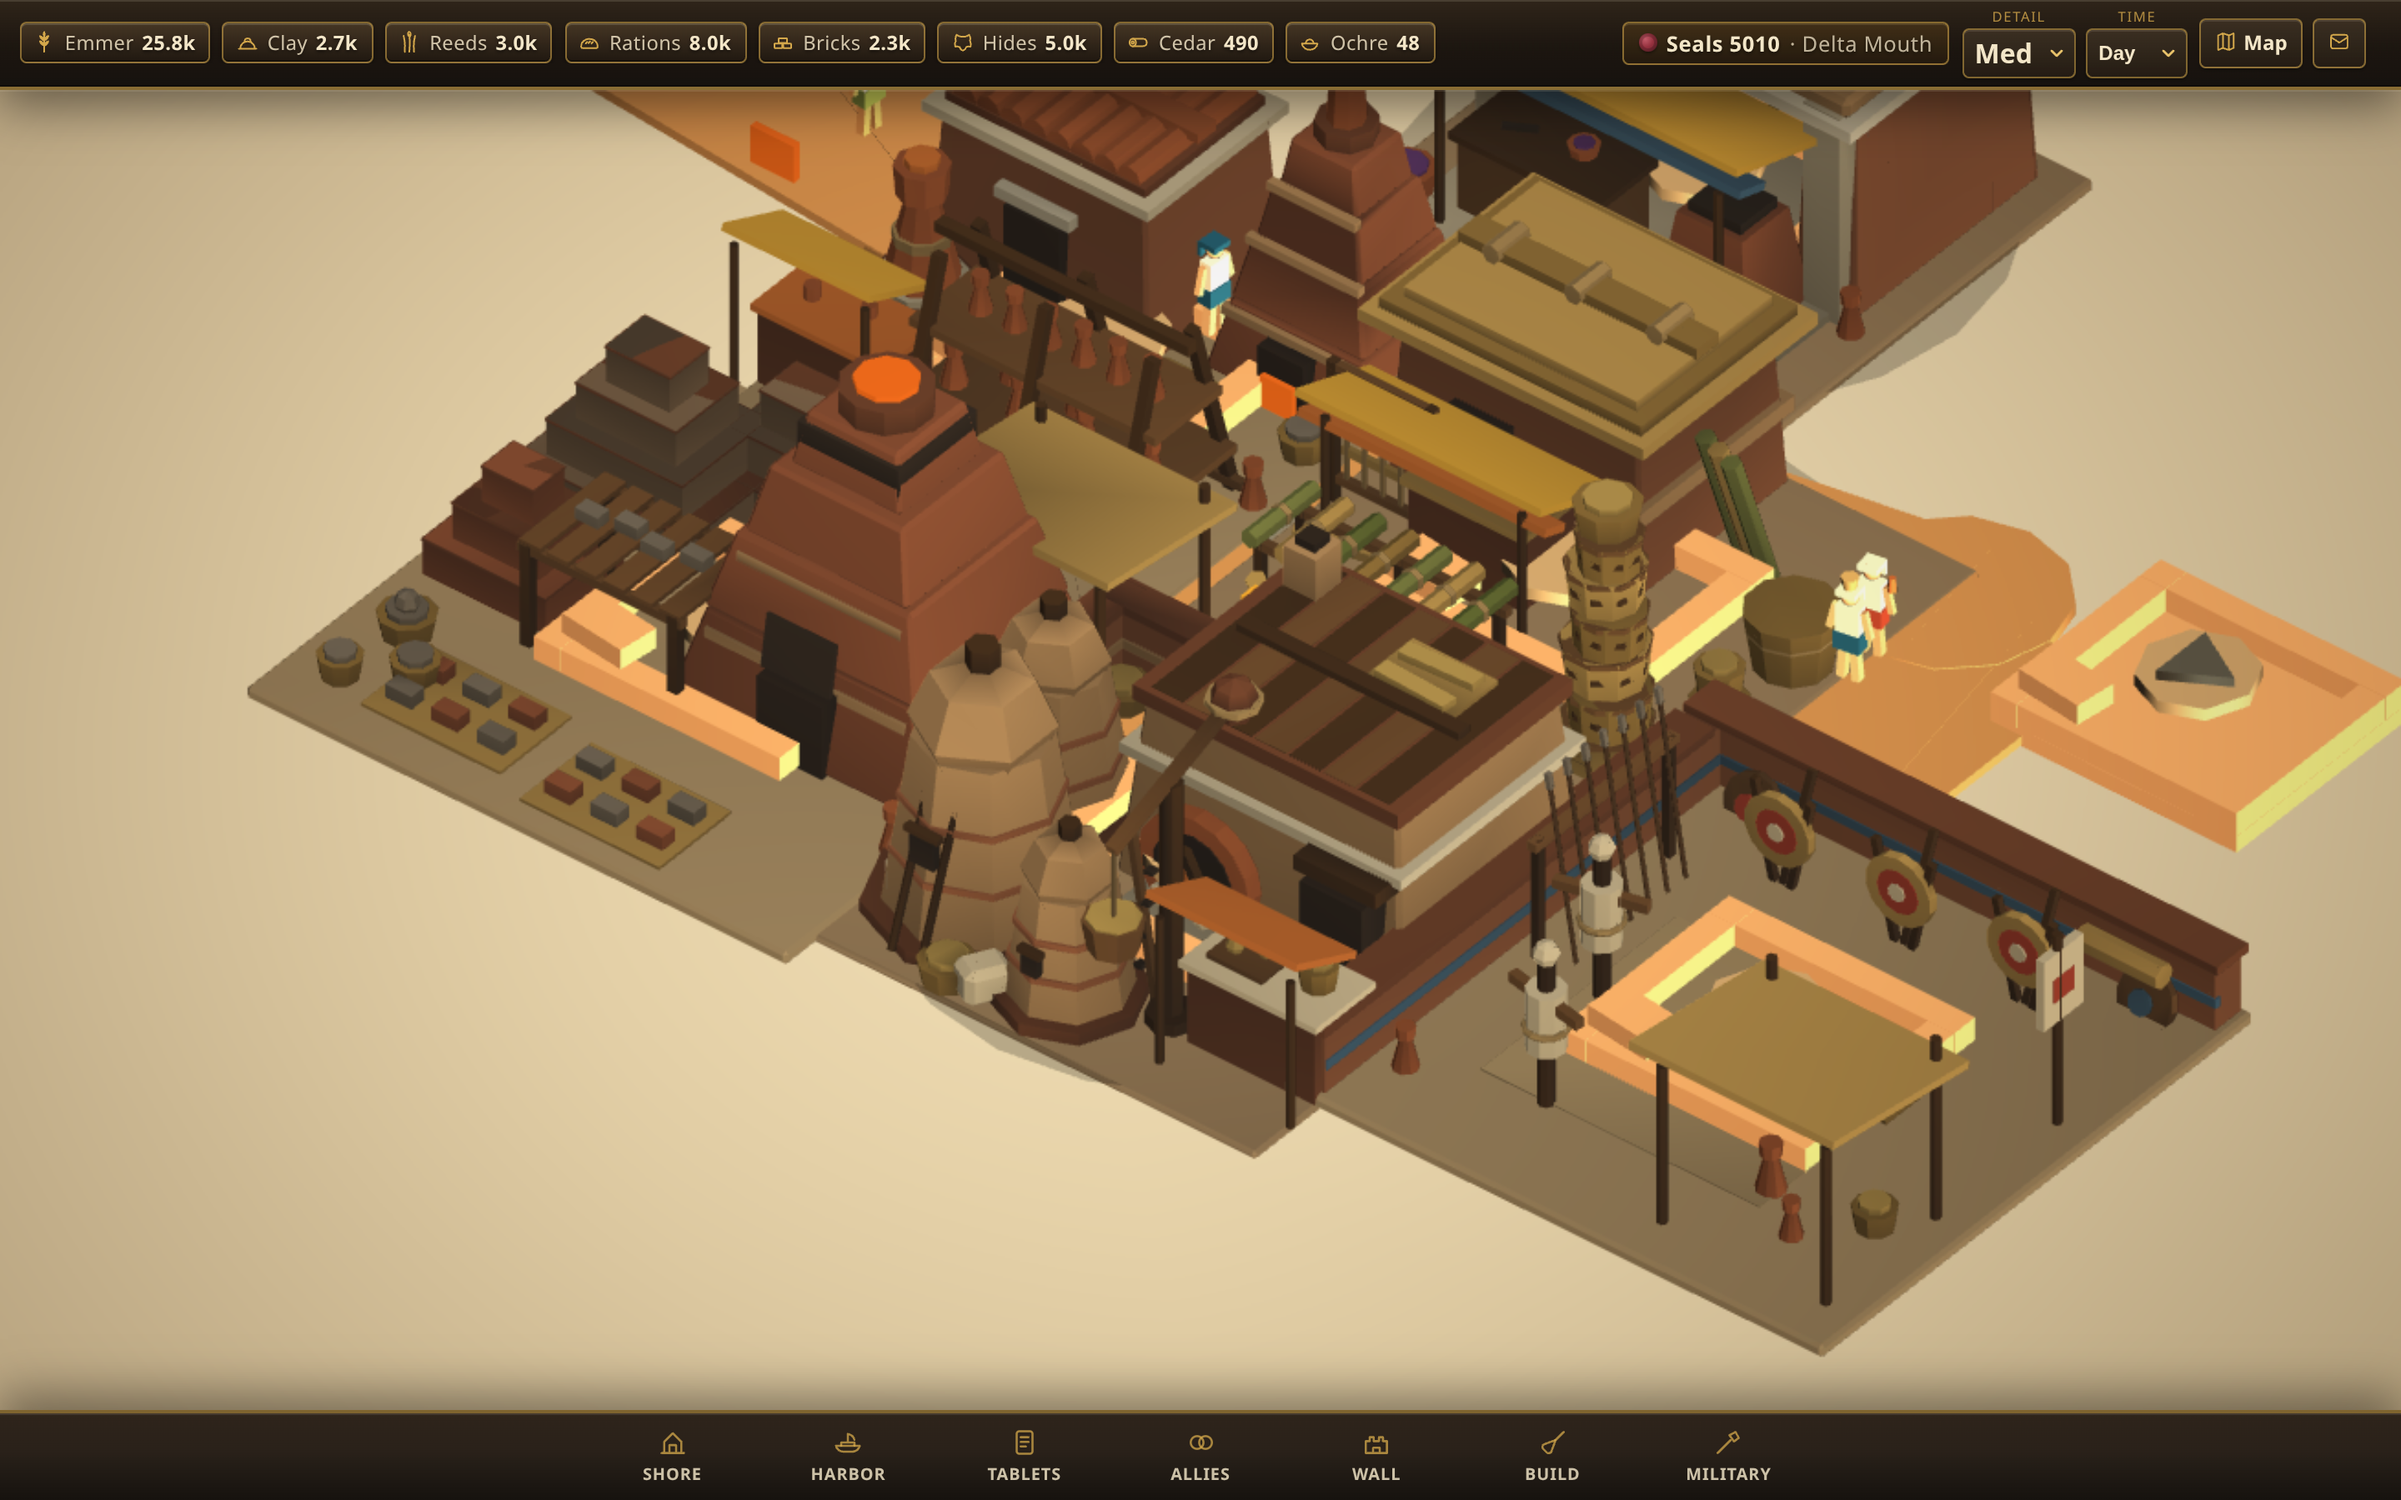
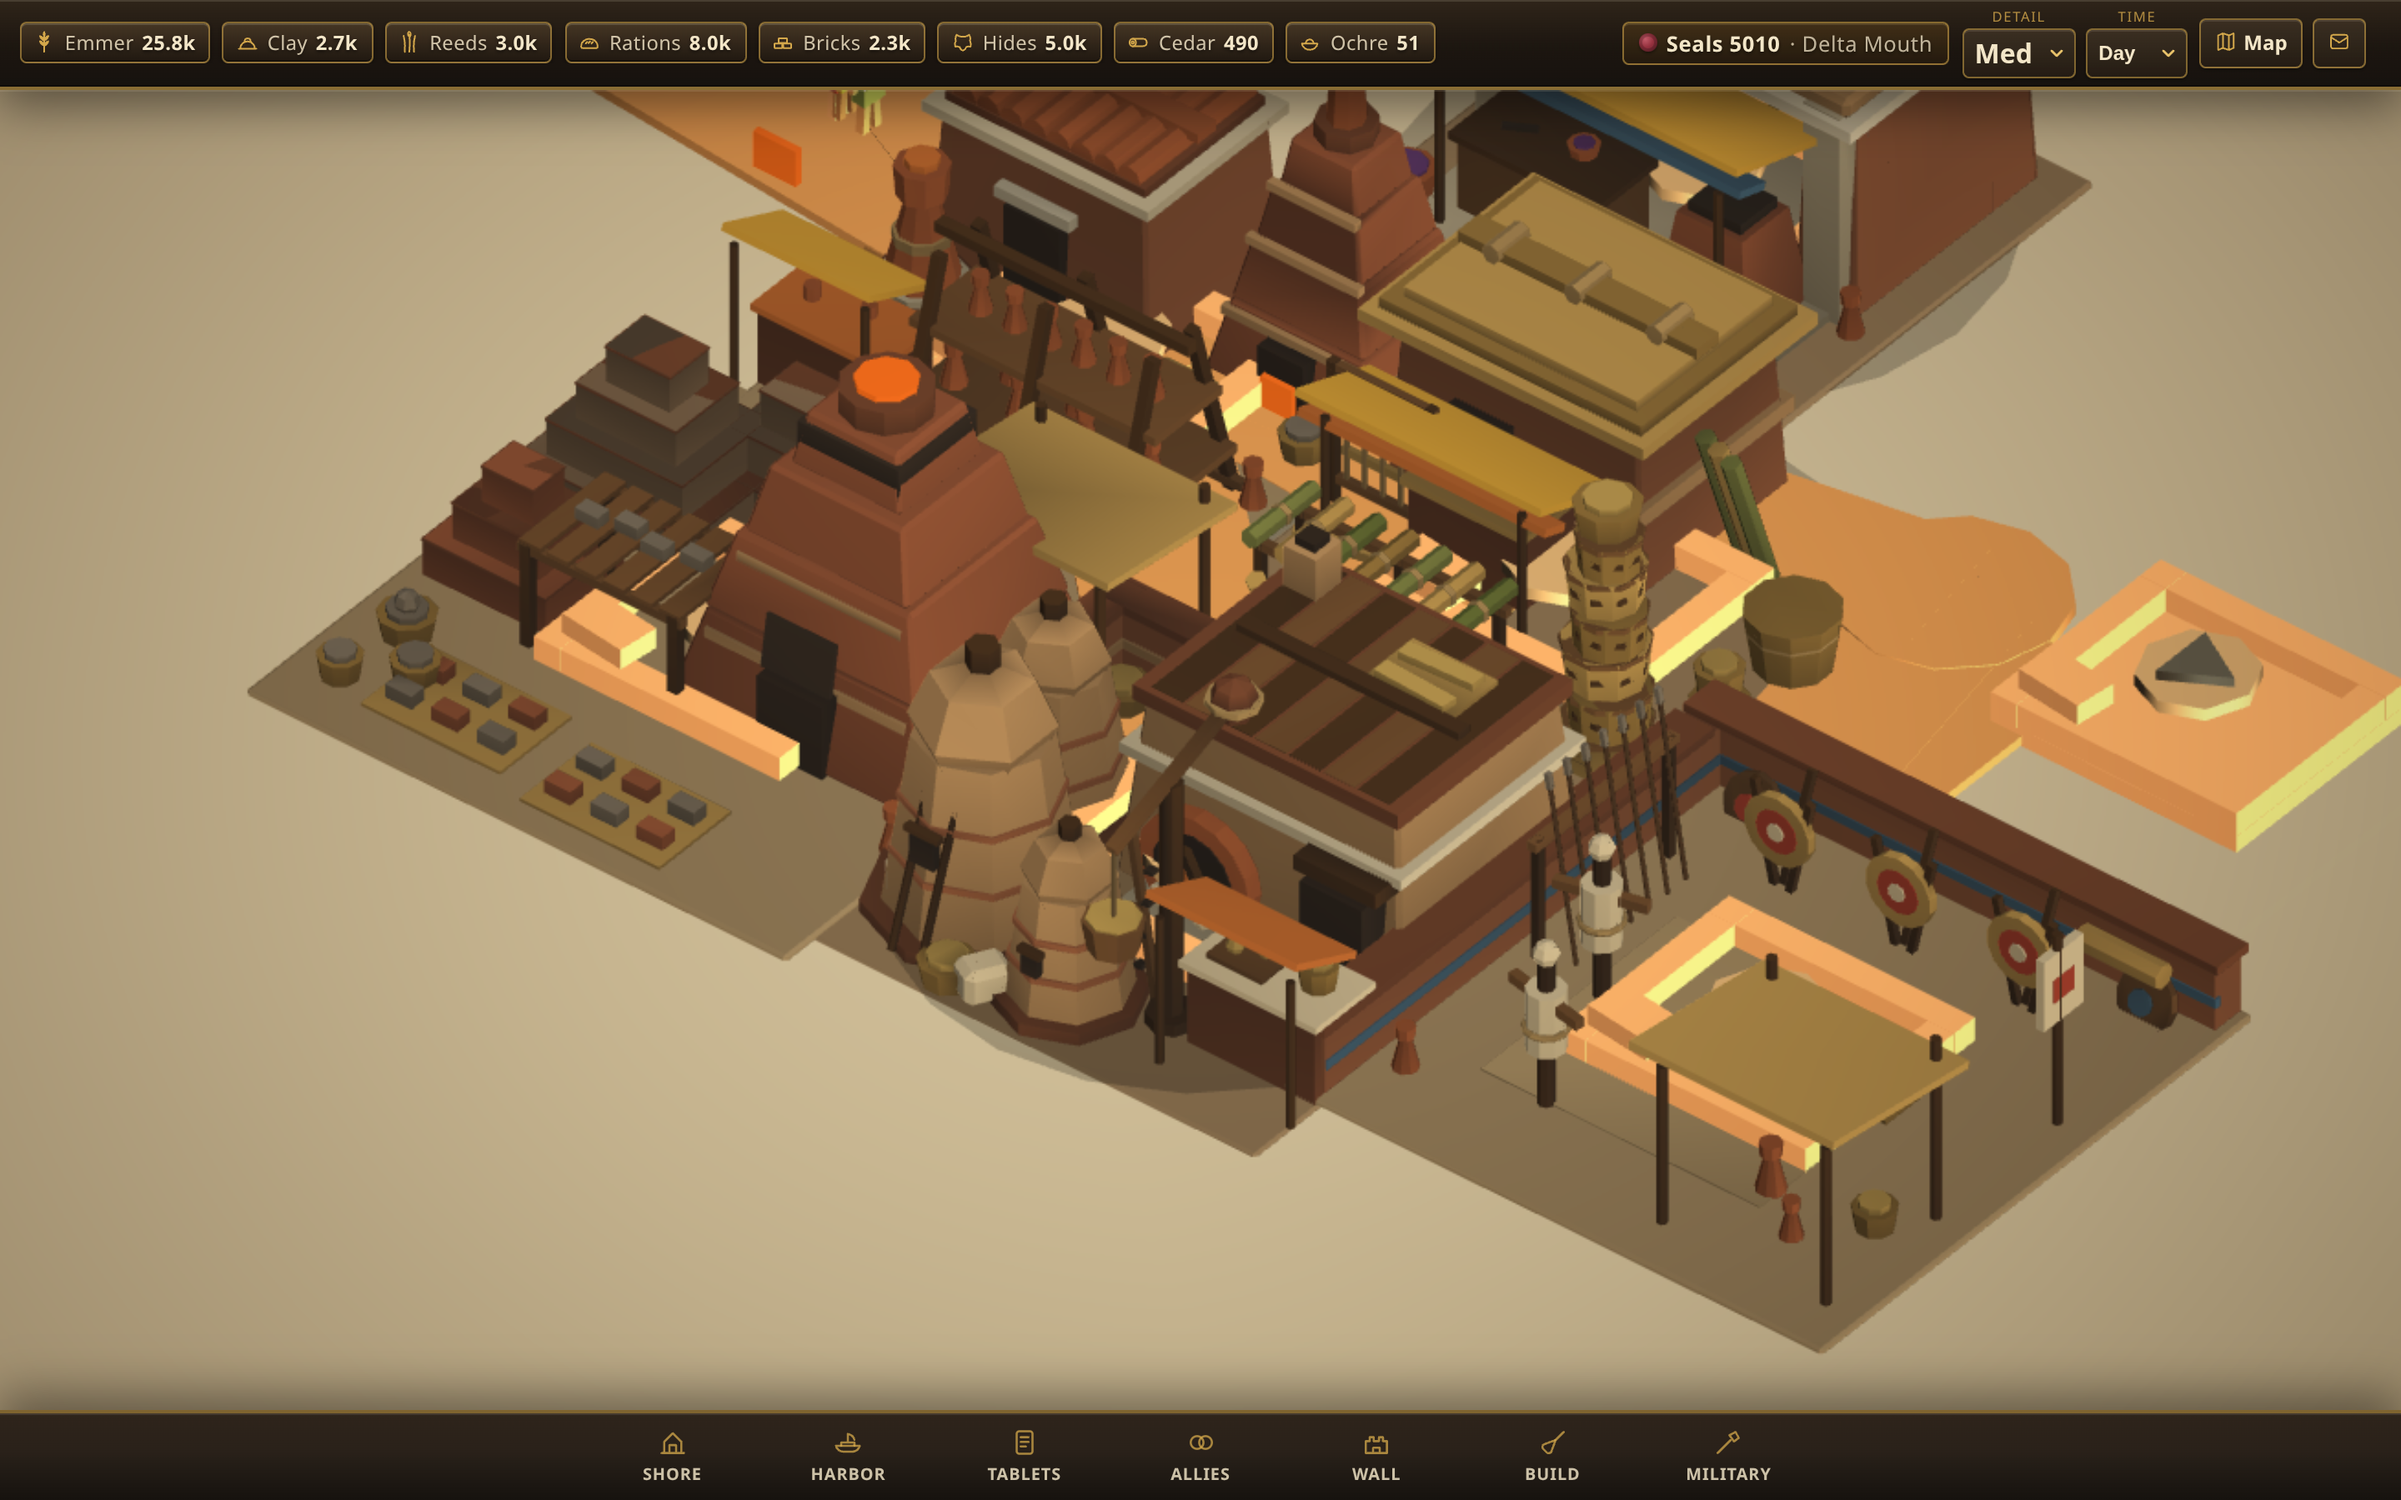
feat(overhaul-r11): horizon ridge band + unified plot trays
Depth: a horizon dune band now terminates the sand plane at the frame edges,
closing the composition (judges: 'no framing element, no horizon, the plane
flattens').

Cohesion: every kit's plot tray is retinted to one shared ground tone and
flattened in kitLoader, so the settlement stops reading as differently-beige
tiles pasted onto the sand.

Particle atmosphere attempted and reverted rather than shipped dead: Babylon
ESM never creates an internal texture for the particle sprite (Texture._texture
stays null for both DynamicTexture and data-URL Texture, so isReady() is false
and nothing emits). Diagnosis recorded in the status doc for a one-step fix
later; no dead code left in the bundle.

diff --git a/apps/client/src/render/scene.ts b/apps/client/src/render/scene.ts
@@ -729,6 +729,35 @@ export class SettlementView {
     palm(4.3, -12.3, 1.1, -0.15);
     palm(-1.8, -12.0, 1.3, 0.12);
 
+    // Horizon ridge band: gives the sand plane a terminus and closes the
+    // composition (judges: "no framing element, no horizon, plane flattens")
+    const ridgeMat = new StandardMaterial("horizonRidgeMat", this.scene);
+    ridgeMat.diffuseColor = hexToColor3("#A8926B");
+    ridgeMat.specularColor = Color3.Black();
+    const ridgeFarMat = new StandardMaterial("horizonRidgeFarMat", this.scene);
+    ridgeFarMat.diffuseColor = hexToColor3("#9A8A70");
+    ridgeFarMat.specularColor = Color3.Black();
+    const ridgeSpecs: Array<[number, number, number, number, boolean]> = [
+      [26, -16, 22, 2.6, false], [30, 4, 24, 3.0, false],
+      [25, 21, 20, 2.4, false], [10, -24, 20, 2.4, false],
+      [-6, 26, 22, 2.6, false], [44, -6, 30, 4.4, true],
+      [40, 26, 26, 3.6, true], [-22, -30, 22, 3.0, true],
+    ];
+    for (const [rx, rz, rlen, rh, far] of ridgeSpecs) {
+      const ridge = MeshBuilder.CreateSphere(
+        `horizonRidge-${rx}-${rz}`,
+        { diameter: 2, segments: 9 },
+        this.scene
+      );
+      ridge.scaling.set(rlen / 2, rh * 0.5, rlen / 4.5);
+      ridge.position.set(rx, -rh * 0.3, rz);
+      ridge.rotation.y = -0.6 + ((rx + rz) % 8) * 0.06;
+      ridge.material = far ? ridgeFarMat : ridgeMat;
+      ridge.parent = this.envRoot;
+      ridge.isPickable = false;
+      ridge.receiveShadows = true;
+    }
+
     // Crescent dune ridges — shared NW-SE wind direction
     const duneSpecs: Array<[number, number, number, number]> = [
       [16, -3, 5.5, 1.1], [21, 7, 7, 1.4], [13.5, 16.5, 5, 0.9],

diff --git a/apps/client/src/render/kitLoader.ts b/apps/client/src/render/kitLoader.ts
@@ -44,7 +44,7 @@ export async function preloadBuildingKits(scene: Scene): Promise<KitCache> {
     kinds.map(async (file) => {
       try {
         // Bump when Blender re-exports solid kits (dev/prod cache bust)
-        const KIT_VER = "overhaul-r9";
+        const KIT_VER = "overhaul-r11";
         const result = await SceneLoader.ImportMeshAsync(
           null,
           "/models/buildings/",
@@ -167,6 +167,20 @@ export function instantiateBuildingFromKit(
         if ("wireframe" in anyMat) anyMat.wireframe = false;
       }
       const name = c.name.toLowerCase();
+      // Plot trays: force ONE shared ground tone + flatten, so kits stop
+      // reading as differently-beige tiles pasted onto the sand (cohesion).
+      if (
+        name.includes("apron") ||
+        name.includes("earth_pack") ||
+        name.includes("dirt_")
+      ) {
+        const am = c.material as StandardMaterial | null;
+        if (am && am.diffuseColor) {
+          am.diffuseColor = new Color3(0.7, 0.62, 0.47);
+          am.specularColor = Color3.Black();
+        }
+        c.scaling.y = 0.45;
+      }
       // Night craft = windows/hearth/glow only — never flat roof planes
       if (
         name.includes("gold") ||
